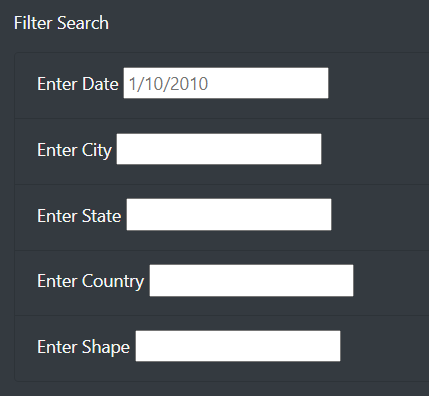
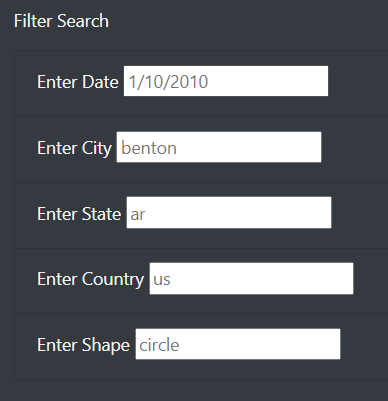
update image

diff --git a/index.html b/index.html
@@ -48,19 +48,19 @@
                     </li>
                     <li class="list-group-item bg-dark">
                         <label for="city">Enter City</label>
-                        <input type="text" id="city" />
+                        <input type="text" placeholder="benton" id="city" />
                     </li>
                     <li class="list-group-item bg-dark">
                         <label for="state">Enter State</label>
-                        <input type="text" id="state" />
+                        <input type="text" placeholder="ar" id="state" />
                     </li>
                     <li class="list-group-item bg-dark">
                         <label for="country">Enter Country</label>
-                        <input type="text" id="country" />
+                        <input type="text" placeholder="us" id="country" />
                     </li>
                     <li class="list-group-item bg-dark">
                         <label for="shape">Enter Shape</label>
-                        <input type="text" id="shape" />
+                        <input type="text" placeholder="circle" id="shape" />
                     </li>
                 </ul>
               </form>
